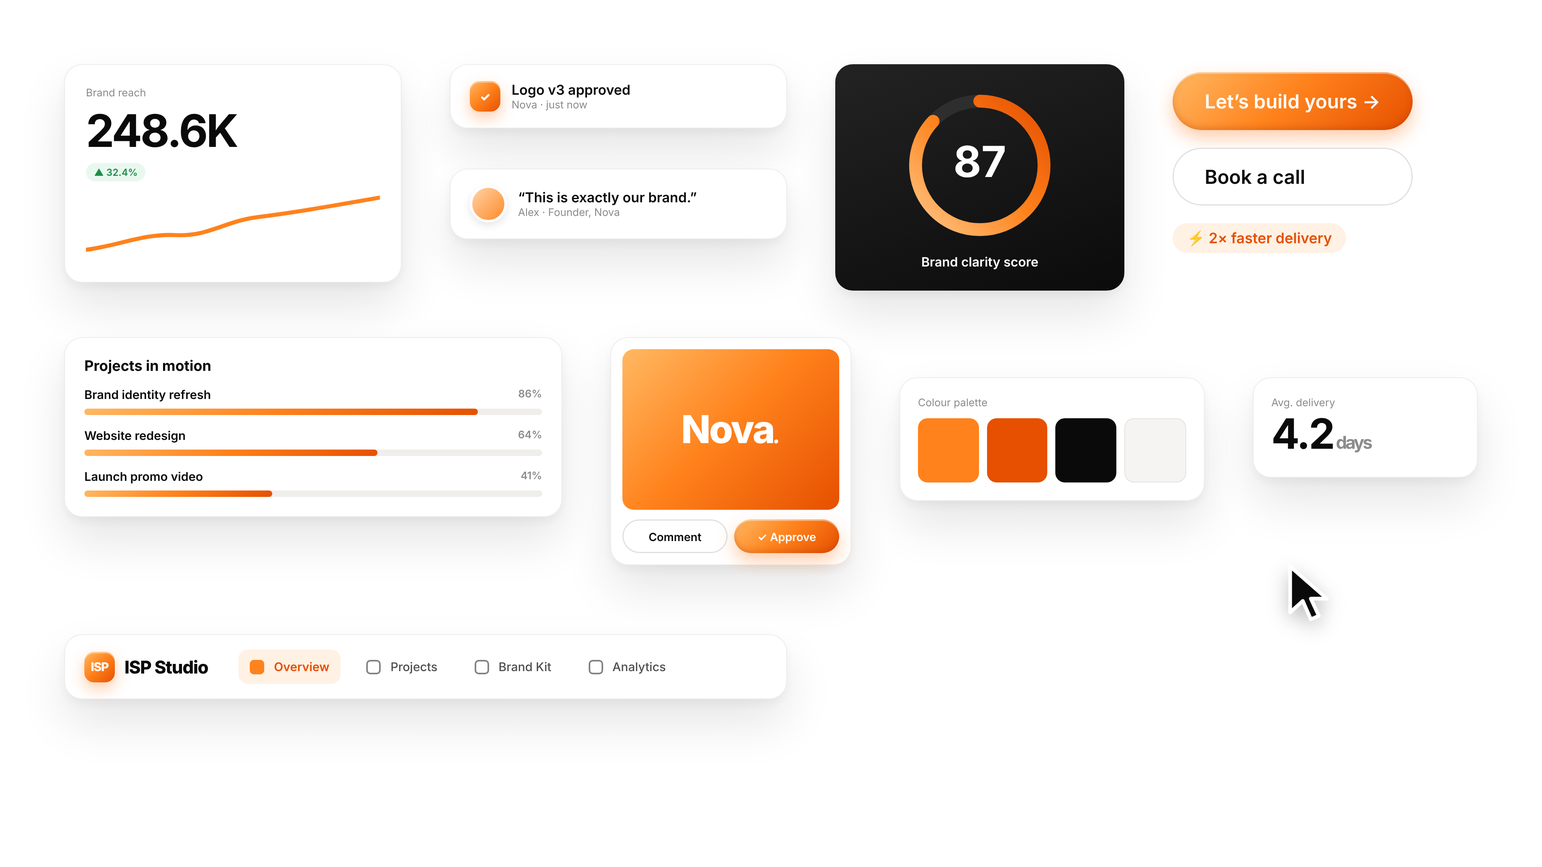
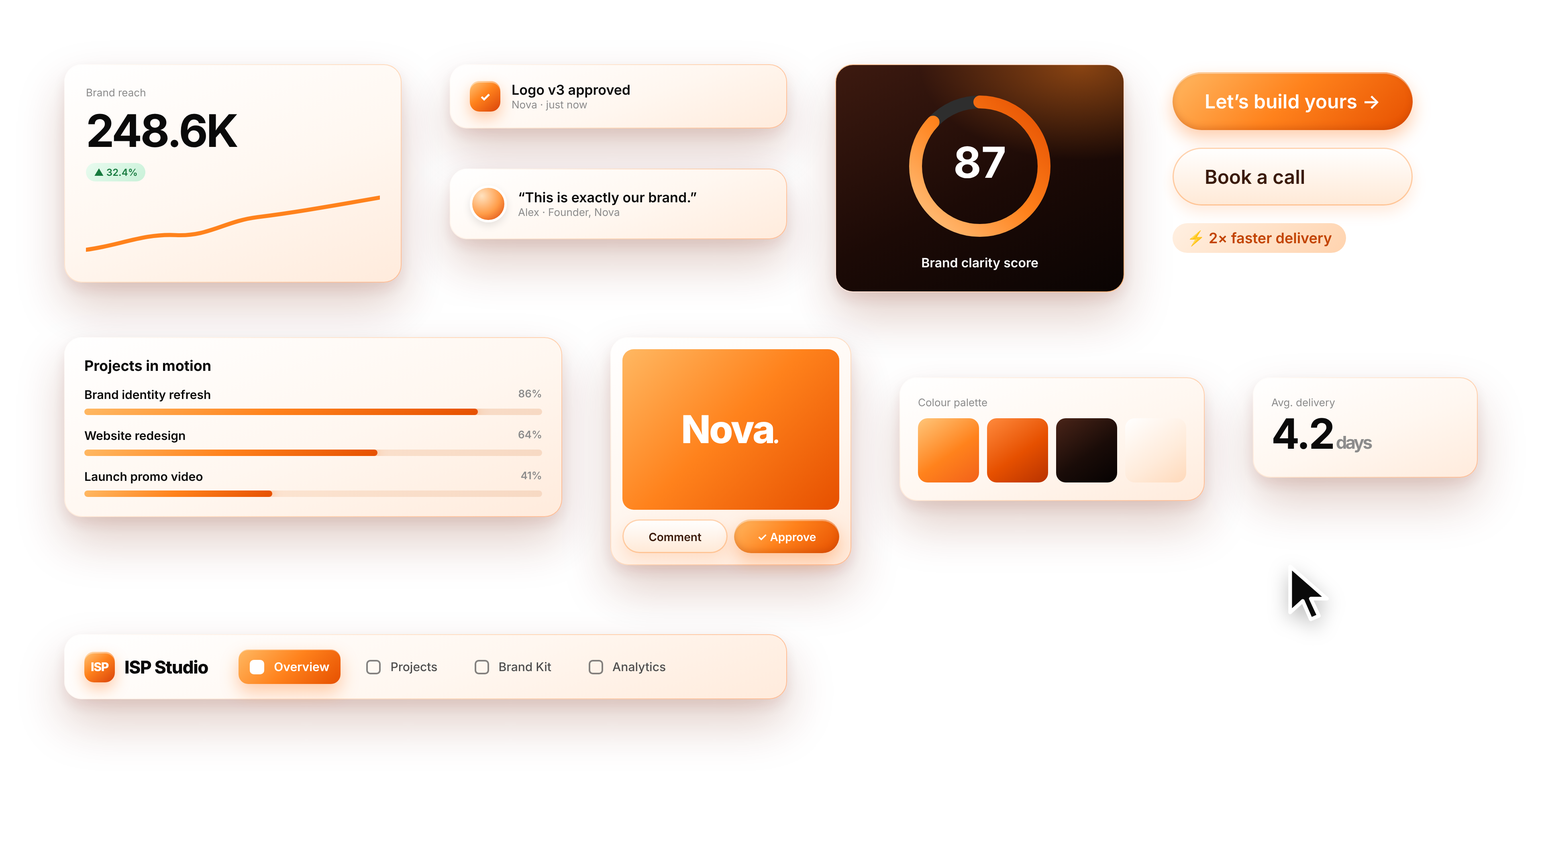
Redesign UI screens with gradient theme
Claude-Session: https://claude.ai/code/session_01Bj9t4csVcVXusQokVkKLET

diff --git a/video/ui/screens.html b/video/ui/screens.html
@@ -24,6 +24,7 @@ body{font-family:Inter,sans-serif;color:var(--ink);-webkit-font-smoothing:antial
 .scr{display:none;position:relative;overflow:hidden}
 .scr.on{display:block}
 .stage.on{display:flex}
+.scr:not(.on){display:none!important}
 
 /* ---------- stage backgrounds ---------- */
 .stage{width:1920px;height:1080px;display:flex;align-items:center;justify-content:center;
@@ -70,7 +71,7 @@ body{font-family:Inter,sans-serif;color:var(--ink);-webkit-font-smoothing:antial
 .bar{height:8px;border-radius:9px;background:#F0EEEB;overflow:hidden}
 .bar>span{display:block;height:100%;border-radius:9px;background:var(--gAcc)}
 .dark{background:linear-gradient(160deg,#232323 0%,#0B0B0B 100%);color:#fff;border:none}
-.dark .muted{color:#9a9a9a}
+.dark .muted{color:rgba(255,220,195,.7)}
 .thumb{border-radius:14px;overflow:hidden;position:relative}
 table{width:100%;border-collapse:collapse;font-size:14px}
 td,th{text-align:left;padding:12px 6px;border-bottom:1px solid var(--line)}
@@ -91,13 +92,68 @@ th{color:var(--ink3);font-weight:500;font-size:12px;text-transform:uppercase;let
 
 /* components sheet */
 .sheet{width:1920px;height:1080px;position:relative}
+
+/* ================= GRADIENT THEME ================= */
+.blob{position:absolute;border-radius:50%;transform:translate(-50%,-50%);opacity:.9;pointer-events:none}
+.stage{background:
+   radial-gradient(ellipse 55% 50% at 50% 45%,rgba(255,196,140,.55),rgba(255,196,140,0) 70%),
+   linear-gradient(135deg,#FFB25E 0%,#FF7A2A 30%,#F24E28 58%,#B3263A 82%,#5E1530 100%)}
+.stage::after{content:"";position:absolute;inset:0;pointer-events:none;opacity:.25;
+  background:repeating-linear-gradient(115deg,rgba(255,255,255,.0) 0 120px,rgba(255,255,255,.07) 120px 122px)}
+.stage>*{position:relative;z-index:1}
+.stage>.blob{position:absolute;z-index:0}
+.stage>.float,.stage>.phone,.stage>div[style*="position:absolute"]{position:absolute}
+.win{background:linear-gradient(145deg,rgba(255,255,255,.88) 0%,rgba(255,244,234,.80) 50%,rgba(255,226,204,.72) 100%);
+  backdrop-filter:blur(30px);border:1.5px solid rgba(255,255,255,.7);
+  box-shadow:0 70px 140px rgba(90,15,10,.45),0 20px 40px rgba(90,15,10,.25),inset 0 1px 0 rgba(255,255,255,.9)}
+.side{background:linear-gradient(180deg,rgba(255,255,255,.95) 0%,rgba(255,240,226,.85) 100%);border-right:1px solid rgba(255,150,80,.18)}
+.nav.a{background:linear-gradient(135deg,#FFB862 0%,#FF821C 50%,#E65000 100%);color:#fff;box-shadow:0 10px 22px rgba(255,115,20,.35),inset 0 1px 0 rgba(255,255,255,.4)}
+.nav.a i{background:#fff;border-color:#fff}
+.nav.a b{background:#fff;color:var(--acc2)}
+.nav b{background:linear-gradient(135deg,#FFB862,#E65000)}
+.top h1{background:linear-gradient(180deg,#5C3A2A 0%,#1E0E08 55%,#000 100%);-webkit-background-clip:text;background-clip:text;color:transparent}
+.top h1 .serif{background:linear-gradient(180deg,#FFB862,#FF821C 45%,#D9420A);-webkit-background-clip:text;background-clip:text;color:transparent;padding-right:6px}
+.tg-white{background:linear-gradient(180deg,#FFFFFF 0%,#FFE2C8 100%);-webkit-background-clip:text;background-clip:text;color:transparent;filter:drop-shadow(0 6px 20px rgba(120,20,0,.35))}
+.search{background:linear-gradient(135deg,rgba(255,255,255,.95),rgba(255,236,220,.8));border:1px solid rgba(255,140,60,.2)}
+.btn.o{background:linear-gradient(180deg,#FFFFFF,#FFE9D6);color:#3A1A0A;box-shadow:inset 0 0 0 1.5px rgba(255,130,28,.35),0 8px 18px rgba(255,115,20,.15)}
+.card,.float{border:1.5px solid transparent;
+  background:linear-gradient(160deg,#FFFFFF 0%,#FFF7F0 55%,#FFEBDC 100%) padding-box,
+             linear-gradient(140deg,rgba(255,255,255,1),rgba(255,180,120,.55) 60%,rgba(255,120,40,.5)) border-box;
+  box-shadow:0 18px 40px rgba(140,40,0,.10),inset 0 1px 0 #fff}
+.float{box-shadow:0 30px 60px rgba(120,30,0,.22),0 8px 18px rgba(120,30,0,.10)}
+.card.dark,.float.dark{color:#fff;border:1.5px solid transparent;
+  background:radial-gradient(ellipse 80% 60% at 85% 0%,rgba(255,130,28,.45),rgba(255,130,28,0) 70%) padding-box,
+             linear-gradient(155deg,#3D1A10 0%,#1C0A06 55%,#0A0403 100%) padding-box,
+             linear-gradient(140deg,rgba(255,170,100,.7),rgba(255,90,30,.15) 50%,rgba(255,130,28,.6)) border-box}
+.card.grad{color:#fff;border:1.5px solid transparent;
+  background:radial-gradient(ellipse 70% 60% at 15% 0%,rgba(255,236,200,.65),rgba(255,236,200,0) 70%) padding-box,
+             linear-gradient(140deg,#FFB25E 0%,#FF7A22 45%,#E2470E 100%) padding-box,
+             linear-gradient(140deg,#FFE3C2,rgba(255,255,255,.2)) border-box;
+  box-shadow:0 20px 40px rgba(230,80,0,.35),inset 0 1px 0 rgba(255,255,255,.5)}
+.card.grad .muted{color:rgba(255,255,255,.85)}
+.card.grad .chip{background:linear-gradient(135deg,rgba(255,255,255,.45),rgba(255,255,255,.2));color:#fff}
+.chip{background:linear-gradient(135deg,#E8FBEF,#C9F1D8);color:#167A3E}
+.chip.o{background:linear-gradient(135deg,#FFF0E2,#FFD3AE);color:#C24300}
+.chip.g{background:linear-gradient(135deg,#FFFFFF,#F3E6DC);color:#6B4A3A}
+.bar{background:linear-gradient(90deg,#FFEBDA,#F7D9C3)}
+.bar>span{box-shadow:0 0 12px rgba(255,120,30,.5)}
+.av{background:radial-gradient(circle at 30% 25%,#FFE2C0,#FF9C48 55%,#D9420A)}
+.mark{background:linear-gradient(140deg,#FFC67A 0%,#FF821C 45%,#D9420A 100%)}
+.sidecard{background:radial-gradient(ellipse 90% 70% at 100% 0%,rgba(255,130,28,.55),rgba(255,130,28,0) 70%),linear-gradient(160deg,#3D1A10,#0A0403)}
+.phone{background:linear-gradient(150deg,#4A2A1E 0%,#120806 40%,#2A140C 100%);box-shadow:inset 0 0 0 2px rgba(255,170,110,.35);filter:drop-shadow(0 50px 60px rgba(90,15,10,.45))}
+.pscr{background:linear-gradient(180deg,#FFFFFF 0%,#FFF2E6 55%,#FFE1C8 100%)}
+.tab{background:linear-gradient(135deg,#3D1A10,#0A0403);box-shadow:0 12px 24px rgba(0,0,0,.25)}
+.kcol{background:linear-gradient(180deg,rgba(255,255,255,.55),rgba(255,210,170,.35))!important;border:1px solid rgba(255,255,255,.6)}
 </style>
 </head>
 <body>
 
 <!-- ===================== 01 DASHBOARD ===================== -->
 <section class="scr stage" id="dashboard">
-  <div class="glow" style="left:50%;top:55%;width:1700px;height:1100px"></div>
+  <div class="blob" style="left:8%;top:12%;width:620px;height:620px;background:radial-gradient(closest-side,#FFD08A,rgba(255,208,138,0))"></div>
+  <div class="blob" style="left:88%;top:8%;width:760px;height:760px;background:radial-gradient(closest-side,#FF5A3C,rgba(255,90,60,0))"></div>
+  <div class="blob" style="left:82%;top:95%;width:900px;height:900px;background:radial-gradient(closest-side,#8E1E46,rgba(142,30,70,0))"></div>
+  <div class="blob" style="left:5%;top:92%;width:700px;height:700px;background:radial-gradient(closest-side,#FF8A2A,rgba(255,138,42,0))"></div>
   <div class="win">
     <aside class="side">
       <div class="logo"><div class="mark">ISP</div>ISP Studio</div>
@@ -118,7 +174,7 @@ th{color:var(--ink3);font-weight:500;font-size:12px;text-transform:uppercase;let
         <div class="av"></div>
       </div>
       <div class="row">
-        <div class="card kpi" style="flex:1"><div class="muted">Brand reach</div><div class="v">248.6K</div><span class="chip">▲ 32.4%</span> <span class="muted">vs last month</span></div>
+        <div class="card kpi grad" style="flex:1"><div class="muted">Brand reach</div><div class="v">248.6K</div><span class="chip">▲ 32.4%</span> <span class="muted">vs last month</span></div>
         <div class="card kpi" style="flex:1"><div class="muted">Conversion rate</div><div class="v">7.82%</div><span class="chip">▲ 2.1%</span> <span class="muted">vs last month</span></div>
         <div class="card kpi" style="flex:1"><div class="muted">Active projects</div><div class="v">6</div><span class="chip o">3 awaiting review</span></div>
         <div class="card kpi dark" style="flex:1"><div class="muted">Avg. delivery</div><div class="v">4.2 <span style="font-size:20px;color:#bbb">days</span></div><span class="chip o" style="background:rgba(255,130,28,.18);color:#FFB070">⚡ 2× faster</span></div>
@@ -156,7 +212,10 @@ th{color:var(--ink3);font-weight:500;font-size:12px;text-transform:uppercase;let
 
 <!-- ===================== 02 PROJECT BOARD ===================== -->
 <section class="scr stage" id="projects">
-  <div class="glow" style="left:50%;top:55%;width:1700px;height:1100px"></div>
+  <div class="blob" style="left:8%;top:12%;width:620px;height:620px;background:radial-gradient(closest-side,#FFD08A,rgba(255,208,138,0))"></div>
+  <div class="blob" style="left:88%;top:8%;width:760px;height:760px;background:radial-gradient(closest-side,#FF5A3C,rgba(255,90,60,0))"></div>
+  <div class="blob" style="left:82%;top:95%;width:900px;height:900px;background:radial-gradient(closest-side,#8E1E46,rgba(142,30,70,0))"></div>
+  <div class="blob" style="left:5%;top:92%;width:700px;height:700px;background:radial-gradient(closest-side,#FF8A2A,rgba(255,138,42,0))"></div>
   <div class="win">
     <aside class="side">
       <div class="logo"><div class="mark">ISP</div>ISP Studio</div>
@@ -181,7 +240,10 @@ th{color:var(--ink3);font-weight:500;font-size:12px;text-transform:uppercase;let
 
 <!-- ===================== 03 ANALYTICS ===================== -->
 <section class="scr stage" id="analytics">
-  <div class="glow" style="left:50%;top:55%;width:1700px;height:1100px"></div>
+  <div class="blob" style="left:8%;top:12%;width:620px;height:620px;background:radial-gradient(closest-side,#FFD08A,rgba(255,208,138,0))"></div>
+  <div class="blob" style="left:88%;top:8%;width:760px;height:760px;background:radial-gradient(closest-side,#FF5A3C,rgba(255,90,60,0))"></div>
+  <div class="blob" style="left:82%;top:95%;width:900px;height:900px;background:radial-gradient(closest-side,#8E1E46,rgba(142,30,70,0))"></div>
+  <div class="blob" style="left:5%;top:92%;width:700px;height:700px;background:radial-gradient(closest-side,#FF8A2A,rgba(255,138,42,0))"></div>
   <div class="win">
     <aside class="side">
       <div class="logo"><div class="mark">ISP</div>ISP Studio</div>
@@ -218,7 +280,7 @@ th{color:var(--ink3);font-weight:500;font-size:12px;text-transform:uppercase;let
           <div class="row">
             <div class="card kpi" style="flex:1"><div class="muted">Time on site</div><div class="v">3m 48s</div><span class="chip">▲ 64%</span></div>
             <div class="card kpi" style="flex:1"><div class="muted">Bounce rate</div><div class="v">28.4%</div><span class="chip">▼ 19%</span></div>
-            <div class="card kpi" style="flex:1"><div class="muted">Revenue influenced</div><div class="v">$184K</div><span class="chip">▲ 3.2×</span></div>
+            <div class="card kpi grad" style="flex:1"><div class="muted">Revenue influenced</div><div class="v">$184K</div><span class="chip">▲ 3.2×</span></div>
           </div>
         </div>
       </div>
@@ -228,7 +290,10 @@ th{color:var(--ink3);font-weight:500;font-size:12px;text-transform:uppercase;let
 
 <!-- ===================== 04 BRAND KIT ===================== -->
 <section class="scr stage" id="brandkit">
-  <div class="glow" style="left:50%;top:55%;width:1700px;height:1100px"></div>
+  <div class="blob" style="left:8%;top:12%;width:620px;height:620px;background:radial-gradient(closest-side,#FFD08A,rgba(255,208,138,0))"></div>
+  <div class="blob" style="left:88%;top:8%;width:760px;height:760px;background:radial-gradient(closest-side,#FF5A3C,rgba(255,90,60,0))"></div>
+  <div class="blob" style="left:82%;top:95%;width:900px;height:900px;background:radial-gradient(closest-side,#8E1E46,rgba(142,30,70,0))"></div>
+  <div class="blob" style="left:5%;top:92%;width:700px;height:700px;background:radial-gradient(closest-side,#FF8A2A,rgba(255,138,42,0))"></div>
   <div class="win">
     <aside class="side">
       <div class="logo"><div class="mark">ISP</div>ISP Studio</div>
@@ -249,20 +314,20 @@ th{color:var(--ink3);font-weight:500;font-size:12px;text-transform:uppercase;let
         <div class="card" style="flex:1.2;display:flex;flex-direction:column;gap:16px">
           <h3>Logo suite</h3>
           <div style="flex:1;display:grid;grid-template-columns:1fr 1fr;gap:16px">
-            <div class="thumb" style="background:linear-gradient(160deg,#fff,#F1F1F1);display:grid;place-items:center;border:1px solid var(--line)"><div style="display:flex;align-items:center;gap:14px;font-size:40px;font-weight:800;letter-spacing:-.04em"><div class="mark" style="width:64px;height:64px;font-size:22px;border-radius:18px">N</div>Nova</div></div>
-            <div class="thumb" style="background:linear-gradient(160deg,#232323,#000);display:grid;place-items:center"><div style="display:flex;align-items:center;gap:14px;font-size:40px;font-weight:800;letter-spacing:-.04em;color:#fff"><div class="mark" style="width:64px;height:64px;font-size:22px;border-radius:18px">N</div>Nova</div></div>
+            <div class="thumb" style="background:linear-gradient(150deg,#FFFFFF,#FFF1E4 60%,#FFDCC0);display:grid;place-items:center"><div style="display:flex;align-items:center;gap:14px;font-size:40px;font-weight:800;letter-spacing:-.04em"><div class="mark" style="width:64px;height:64px;font-size:22px;border-radius:18px">N</div>Nova</div></div>
+            <div class="thumb" style="background:linear-gradient(150deg,#4A1E10,#1A0906 55%,#090303);display:grid;place-items:center"><div style="display:flex;align-items:center;gap:14px;font-size:40px;font-weight:800;letter-spacing:-.04em;color:#fff"><div class="mark" style="width:64px;height:64px;font-size:22px;border-radius:18px">N</div>Nova</div></div>
             <div class="thumb" style="background:var(--gAcc);display:grid;place-items:center"><div style="font-size:46px;font-weight:800;color:#fff;letter-spacing:-.04em">Nova<span class="serif" style="font-weight:400">.</span></div></div>
-            <div class="thumb" style="background:var(--accSoft);display:grid;place-items:center"><div class="mark" style="width:110px;height:110px;font-size:44px;border-radius:30px">N</div></div>
+            <div class="thumb" style="background:radial-gradient(circle at 30% 20%,#FFF5EC,#FFD2AE 70%,#FFB37A);display:grid;place-items:center"><div class="mark" style="width:110px;height:110px;font-size:44px;border-radius:30px">N</div></div>
           </div>
         </div>
         <div style="flex:1;display:flex;flex-direction:column;gap:22px">
           <div class="card">
             <h3>Colour palette</h3>
             <div style="display:flex;gap:12px;margin-top:16px">
-              <div style="flex:1"><div style="height:110px;border-radius:14px;background:#FF821C"></div><div style="font-size:13px;font-weight:600;margin-top:8px">Ember</div><div class="muted">#FF821C</div></div>
-              <div style="flex:1"><div style="height:110px;border-radius:14px;background:#E65000"></div><div style="font-size:13px;font-weight:600;margin-top:8px">Flame</div><div class="muted">#E65000</div></div>
-              <div style="flex:1"><div style="height:110px;border-radius:14px;background:#0A0A0A"></div><div style="font-size:13px;font-weight:600;margin-top:8px">Ink</div><div class="muted">#0A0A0A</div></div>
-              <div style="flex:1"><div style="height:110px;border-radius:14px;background:#F5F4F2;border:1px solid var(--line)"></div><div style="font-size:13px;font-weight:600;margin-top:8px">Paper</div><div class="muted">#F5F4F2</div></div>
+              <div style="flex:1"><div style="height:110px;border-radius:14px;background:linear-gradient(145deg,#FFC67A,#FF821C 55%,#F2611A)"></div><div style="font-size:13px;font-weight:600;margin-top:8px">Ember</div><div class="muted">#FF821C</div></div>
+              <div style="flex:1"><div style="height:110px;border-radius:14px;background:linear-gradient(145deg,#FF8A3D,#E65000 55%,#B83200)"></div><div style="font-size:13px;font-weight:600;margin-top:8px">Flame</div><div class="muted">#E65000</div></div>
+              <div style="flex:1"><div style="height:110px;border-radius:14px;background:linear-gradient(145deg,#4A2418,#1A0C08 55%,#050202)"></div><div style="font-size:13px;font-weight:600;margin-top:8px">Ink</div><div class="muted">#0A0A0A</div></div>
+              <div style="flex:1"><div style="height:110px;border-radius:14px;background:linear-gradient(145deg,#FFFFFF,#FFEBDA 60%,#FFD9BA)"></div><div style="font-size:13px;font-weight:600;margin-top:8px">Paper</div><div class="muted">#F5F4F2</div></div>
             </div>
           </div>
           <div class="card" style="flex:1">
@@ -284,12 +349,15 @@ th{color:var(--ink3);font-weight:500;font-size:12px;text-transform:uppercase;let
 
 <!-- ===================== 05 MOBILE (vertical 1080x1920) ===================== -->
 <section class="scr stage v" id="mobile">
-  <div class="glow" style="left:50%;top:50%;width:1200px;height:1500px"></div>
+  <div class="blob" style="left:8%;top:12%;width:620px;height:620px;background:radial-gradient(closest-side,#FFD08A,rgba(255,208,138,0))"></div>
+  <div class="blob" style="left:88%;top:8%;width:760px;height:760px;background:radial-gradient(closest-side,#FF5A3C,rgba(255,90,60,0))"></div>
+  <div class="blob" style="left:82%;top:95%;width:900px;height:900px;background:radial-gradient(closest-side,#8E1E46,rgba(142,30,70,0))"></div>
+  <div class="blob" style="left:5%;top:92%;width:700px;height:700px;background:radial-gradient(closest-side,#FF8A2A,rgba(255,138,42,0))"></div>
   <div style="position:absolute;top:150px;left:0;right:0;text-align:center">
-    <div style="font-size:30px;color:var(--ink3);font-weight:500">Approve designs</div>
-    <div style="font-size:84px;font-weight:700;letter-spacing:-.04em;line-height:1.05">from <span class="serif" style="color:var(--acc2)">anywhere.</span></div>
+    <div style="font-size:30px;color:rgba(255,255,255,.8);font-weight:500">Approve designs</div>
+    <div class="tg-white" style="font-size:96px;font-weight:700;letter-spacing:-.04em;line-height:1.1;padding-bottom:10px">from <span class="serif">anywhere.</span></div>
   </div>
-  <div class="phone" style="position:absolute;left:325px;top:560px;transform:scale(1.05);transform-origin:top center">
+  <div class="phone" style="position:absolute;left:325px;top:560px">
     <div class="pscr">
       <div class="notch"></div>
       <div style="display:flex;align-items:center"><div><div class="muted">Wednesday</div><div style="font-size:26px;font-weight:700;letter-spacing:-.03em">Approvals</div></div><div class="av" style="margin-left:auto;width:42px;height:42px"></div></div>
@@ -302,11 +370,11 @@ th{color:var(--ink3);font-weight:500;font-size:12px;text-transform:uppercase;let
         <div style="display:flex;gap:10px;margin-top:14px"><div class="btn o" style="flex:1;justify-content:center;height:50px">Comment</div><div class="btn" style="flex:1;justify-content:center;height:50px">✓ Approve</div></div>
       </div>
       <div class="card" style="margin-top:14px;padding:14px;display:flex;gap:12px;align-items:center">
-        <div class="thumb" style="width:64px;height:64px;background:linear-gradient(160deg,#232323,#000);flex:none"></div>
+        <div class="thumb" style="width:64px;height:64px;background:linear-gradient(150deg,#5A2412,#1F0A06 60%,#0A0303);flex:none"></div>
         <div><div style="font-weight:600;font-size:14px">Homepage hero</div><div class="muted">Waiting on you · 2h</div></div><span class="chip g" style="margin-left:auto">Review</span>
       </div>
       <div class="card" style="margin-top:14px;padding:14px;display:flex;gap:12px;align-items:center">
-        <div class="thumb" style="width:64px;height:64px;background:var(--accSoft);flex:none"></div>
+        <div class="thumb" style="width:64px;height:64px;background:linear-gradient(145deg,#FFE3C8,#FF9F5A);flex:none"></div>
         <div><div style="font-weight:600;font-size:14px">Instagram set (9)</div><div class="muted">Approved · yesterday</div></div><span class="chip" style="margin-left:auto">Done</span>
       </div>
       <div class="tab"><i class="a"></i><i></i><i></i><i></i></div>
@@ -347,7 +415,7 @@ th{color:var(--ink3);font-weight:500;font-size:12px;text-transform:uppercase;let
   </div>
   <div style="position:absolute;left:1460px;top:90px;display:flex;flex-direction:column;gap:22px">
     <div class="btn" style="height:72px;font-size:24px;padding:0 40px">Let’s build yours →</div>
-    <div class="btn o" style="height:72px;font-size:24px;padding:0 40px;background:#fff">Book a call</div>
+    <div class="btn o" style="height:72px;font-size:24px;padding:0 40px">Book a call</div>
     <span class="chip o" style="font-size:18px;padding:8px 18px;align-self:flex-start">⚡ 2× faster delivery</span>
   </div>
   <div class="float" style="left:80px;top:420px;width:620px;padding:24px">
@@ -363,7 +431,7 @@ th{color:var(--ink3);font-weight:500;font-size:12px;text-transform:uppercase;let
   <div class="float" style="left:1120px;top:470px;width:380px;padding:22px">
     <div class="muted">Colour palette</div>
     <div style="display:flex;gap:10px;margin-top:12px">
-      <div style="flex:1;height:80px;border-radius:12px;background:#FF821C"></div><div style="flex:1;height:80px;border-radius:12px;background:#E65000"></div><div style="flex:1;height:80px;border-radius:12px;background:#0A0A0A"></div><div style="flex:1;height:80px;border-radius:12px;background:#F5F4F2;border:1px solid var(--line)"></div>
+      <div style="flex:1;height:80px;border-radius:12px;background:linear-gradient(145deg,#FFC67A,#FF821C 55%,#F2611A)"></div><div style="flex:1;height:80px;border-radius:12px;background:linear-gradient(145deg,#FF8A3D,#E65000 55%,#B83200)"></div><div style="flex:1;height:80px;border-radius:12px;background:linear-gradient(145deg,#4A2418,#1A0C08 55%,#050202)"></div><div style="flex:1;height:80px;border-radius:12px;background:linear-gradient(145deg,#FFFFFF,#FFEBDA 60%,#FFD9BA)"></div>
     </div>
   </div>
   <div class="float" style="left:1560px;top:470px;width:280px;padding:22px">
@@ -388,11 +456,11 @@ const cols=[
 ];
 const k=document.getElementById('kanban');
 cols.forEach(([t,items],ci)=>{
-  const c=document.createElement('div');c.style.cssText='flex:1;display:flex;flex-direction:column;gap:14px;background:rgba(0,0,0,.025);border-radius:22px;padding:14px';
+  const c=document.createElement('div');c.className='kcol';c.style.cssText='flex:1;display:flex;flex-direction:column;gap:14px;background:rgba(0,0,0,.025);border-radius:22px;padding:14px';
   c.innerHTML=`<div style="display:flex;align-items:center;font-weight:600;font-size:15px;padding:4px 6px"><span class="dot" style="background:${['#C9C9C9','#FF821C','#FFB862','#1C8C4A'][ci]}"></span>${t}<span class="muted" style="margin-left:auto">${items.length+ (ci==1?2:1)}</span></div>`;
   items.forEach(([n,tag,cl,avs,img],i)=>{
     const d=document.createElement('div');d.className='card';d.style.padding='16px';
-    const thumb=img?`<div class="thumb" style="height:120px;margin-bottom:12px;background:${img==='g'?'var(--gAcc)':'linear-gradient(160deg,#232323,#000)'};display:grid;place-items:center;color:#fff;font-weight:800;font-size:28px;letter-spacing:-.03em">${img==='g'?'Nova.':'<span style="opacity:.8">▭ ▭ ▭</span>'}</div>`:'';
+    const thumb=img?`<div class="thumb" style="height:120px;margin-bottom:12px;background:${img==='g'?'var(--gAcc)':'linear-gradient(150deg,#5A2412,#1F0A06 60%,#0A0303)'};display:grid;place-items:center;color:#fff;font-weight:800;font-size:28px;letter-spacing:-.03em">${img==='g'?'Nova.':'<span style="opacity:.8">▭ ▭ ▭</span>'}</div>`:'';
     const prog=ci==1||ci==2?`<div class="bar" style="margin:12px 0 0"><span style="width:${[64,48,86,72][ci*2-2+i]||60}%"></span></div>`:'';
     d.innerHTML=`${thumb}<span class="chip ${cl}">${tag}</span><div style="font-weight:600;font-size:15px;margin-top:10px">${n}</div>${prog}
     <div style="display:flex;align-items:center;margin-top:12px"><div style="display:flex">${avs.map((a,j)=>`<div style="width:28px;height:28px;border-radius:50%;background:${a};border:2px solid #fff;margin-left:${j?-8:0}px"></div>`).join('')}</div><span class="muted" style="margin-left:auto">${ci==3?'✓ Delivered':['Nov 22','Nov 24','Nov 21','Nov 27'][ci]}</span></div>`;
@@ -406,7 +474,7 @@ const before=[22,26,24,30,28,31,29,33,30],after=[34,46,52,61,70,78,84,92,100];
 ['Mar','Apr','May','Jun','Jul','Aug','Sep','Oct','Nov'].forEach((m,i)=>{
   const g=document.createElement('div');g.style.cssText='flex:1;display:flex;flex-direction:column;align-items:center;gap:8px;height:100%';
   g.innerHTML=`<div style="flex:1;width:100%;display:flex;align-items:flex-end;gap:6px;justify-content:center">
-   <div style="width:40%;height:${before[i]}%;background:#E2E2E2;border-radius:8px 8px 4px 4px"></div>
+   <div style="width:40%;height:${before[i]}%;background:linear-gradient(180deg,#FFE7D2,#F6CBA8);border-radius:8px 8px 4px 4px"></div>
    <div style="width:40%;height:${after[i]}%;background:linear-gradient(180deg,#FFB862,#FF821C 50%,#E65000);border-radius:8px 8px 4px 4px;box-shadow:0 8px 18px rgba(255,115,20,.25)"></div></div>
    <div class="muted">${m}</div>`;
   b.appendChild(g);
@@ -414,7 +482,9 @@ const before=[22,26,24,30,28,31,29,33,30],after=[34,46,52,61,70,78,84,92,100];
 // gradient defs for components sheet ring
 document.body.insertAdjacentHTML('afterbegin','<svg width="0" height="0" style="position:absolute"><defs><linearGradient id="ga" x1="0" y1="0" x2="1" y2="1"><stop offset="0" stop-color="#FFC685"/><stop offset=".5" stop-color="#FF821C"/><stop offset="1" stop-color="#E44E00"/></linearGradient></defs></svg>');
 // pick screen
-const id=(location.hash||'#dashboard').slice(1);
+let id=(location.hash||'#dashboard').slice(1);
+if(id==='components-bg'){id='components';const el=document.getElementById(id);el.classList.add('stage');
+  el.insertAdjacentHTML('afterbegin',document.querySelector('#dashboard .blob').outerHTML);}
 document.getElementById(id).classList.add('on');
 </script>
 </body>
